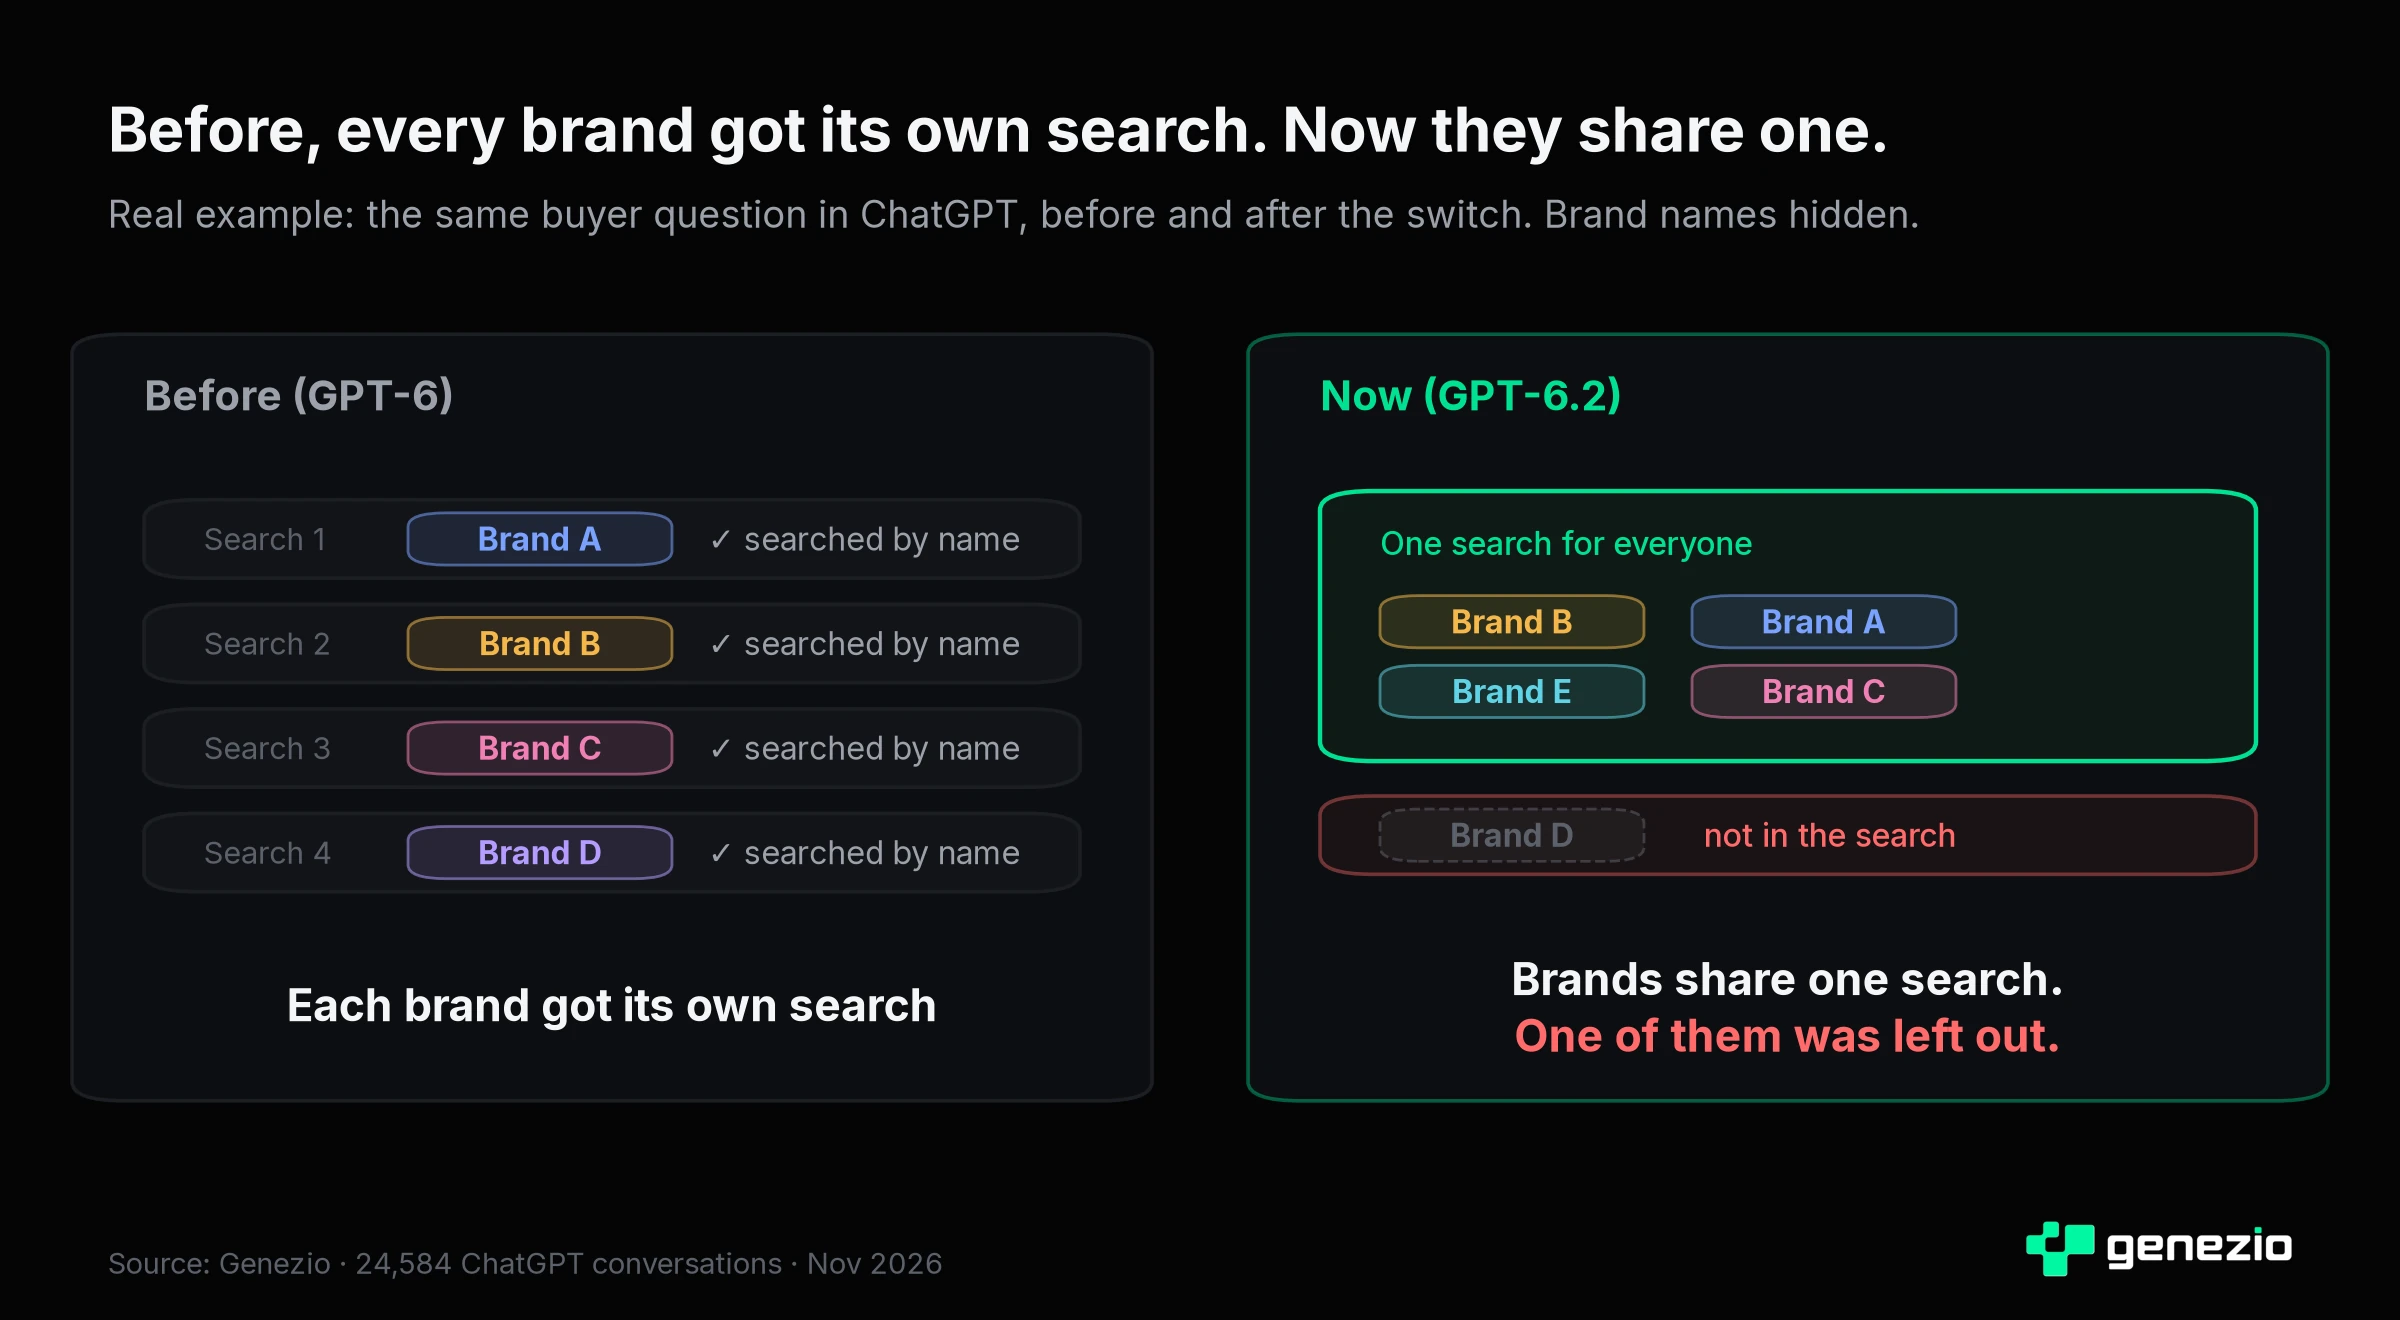
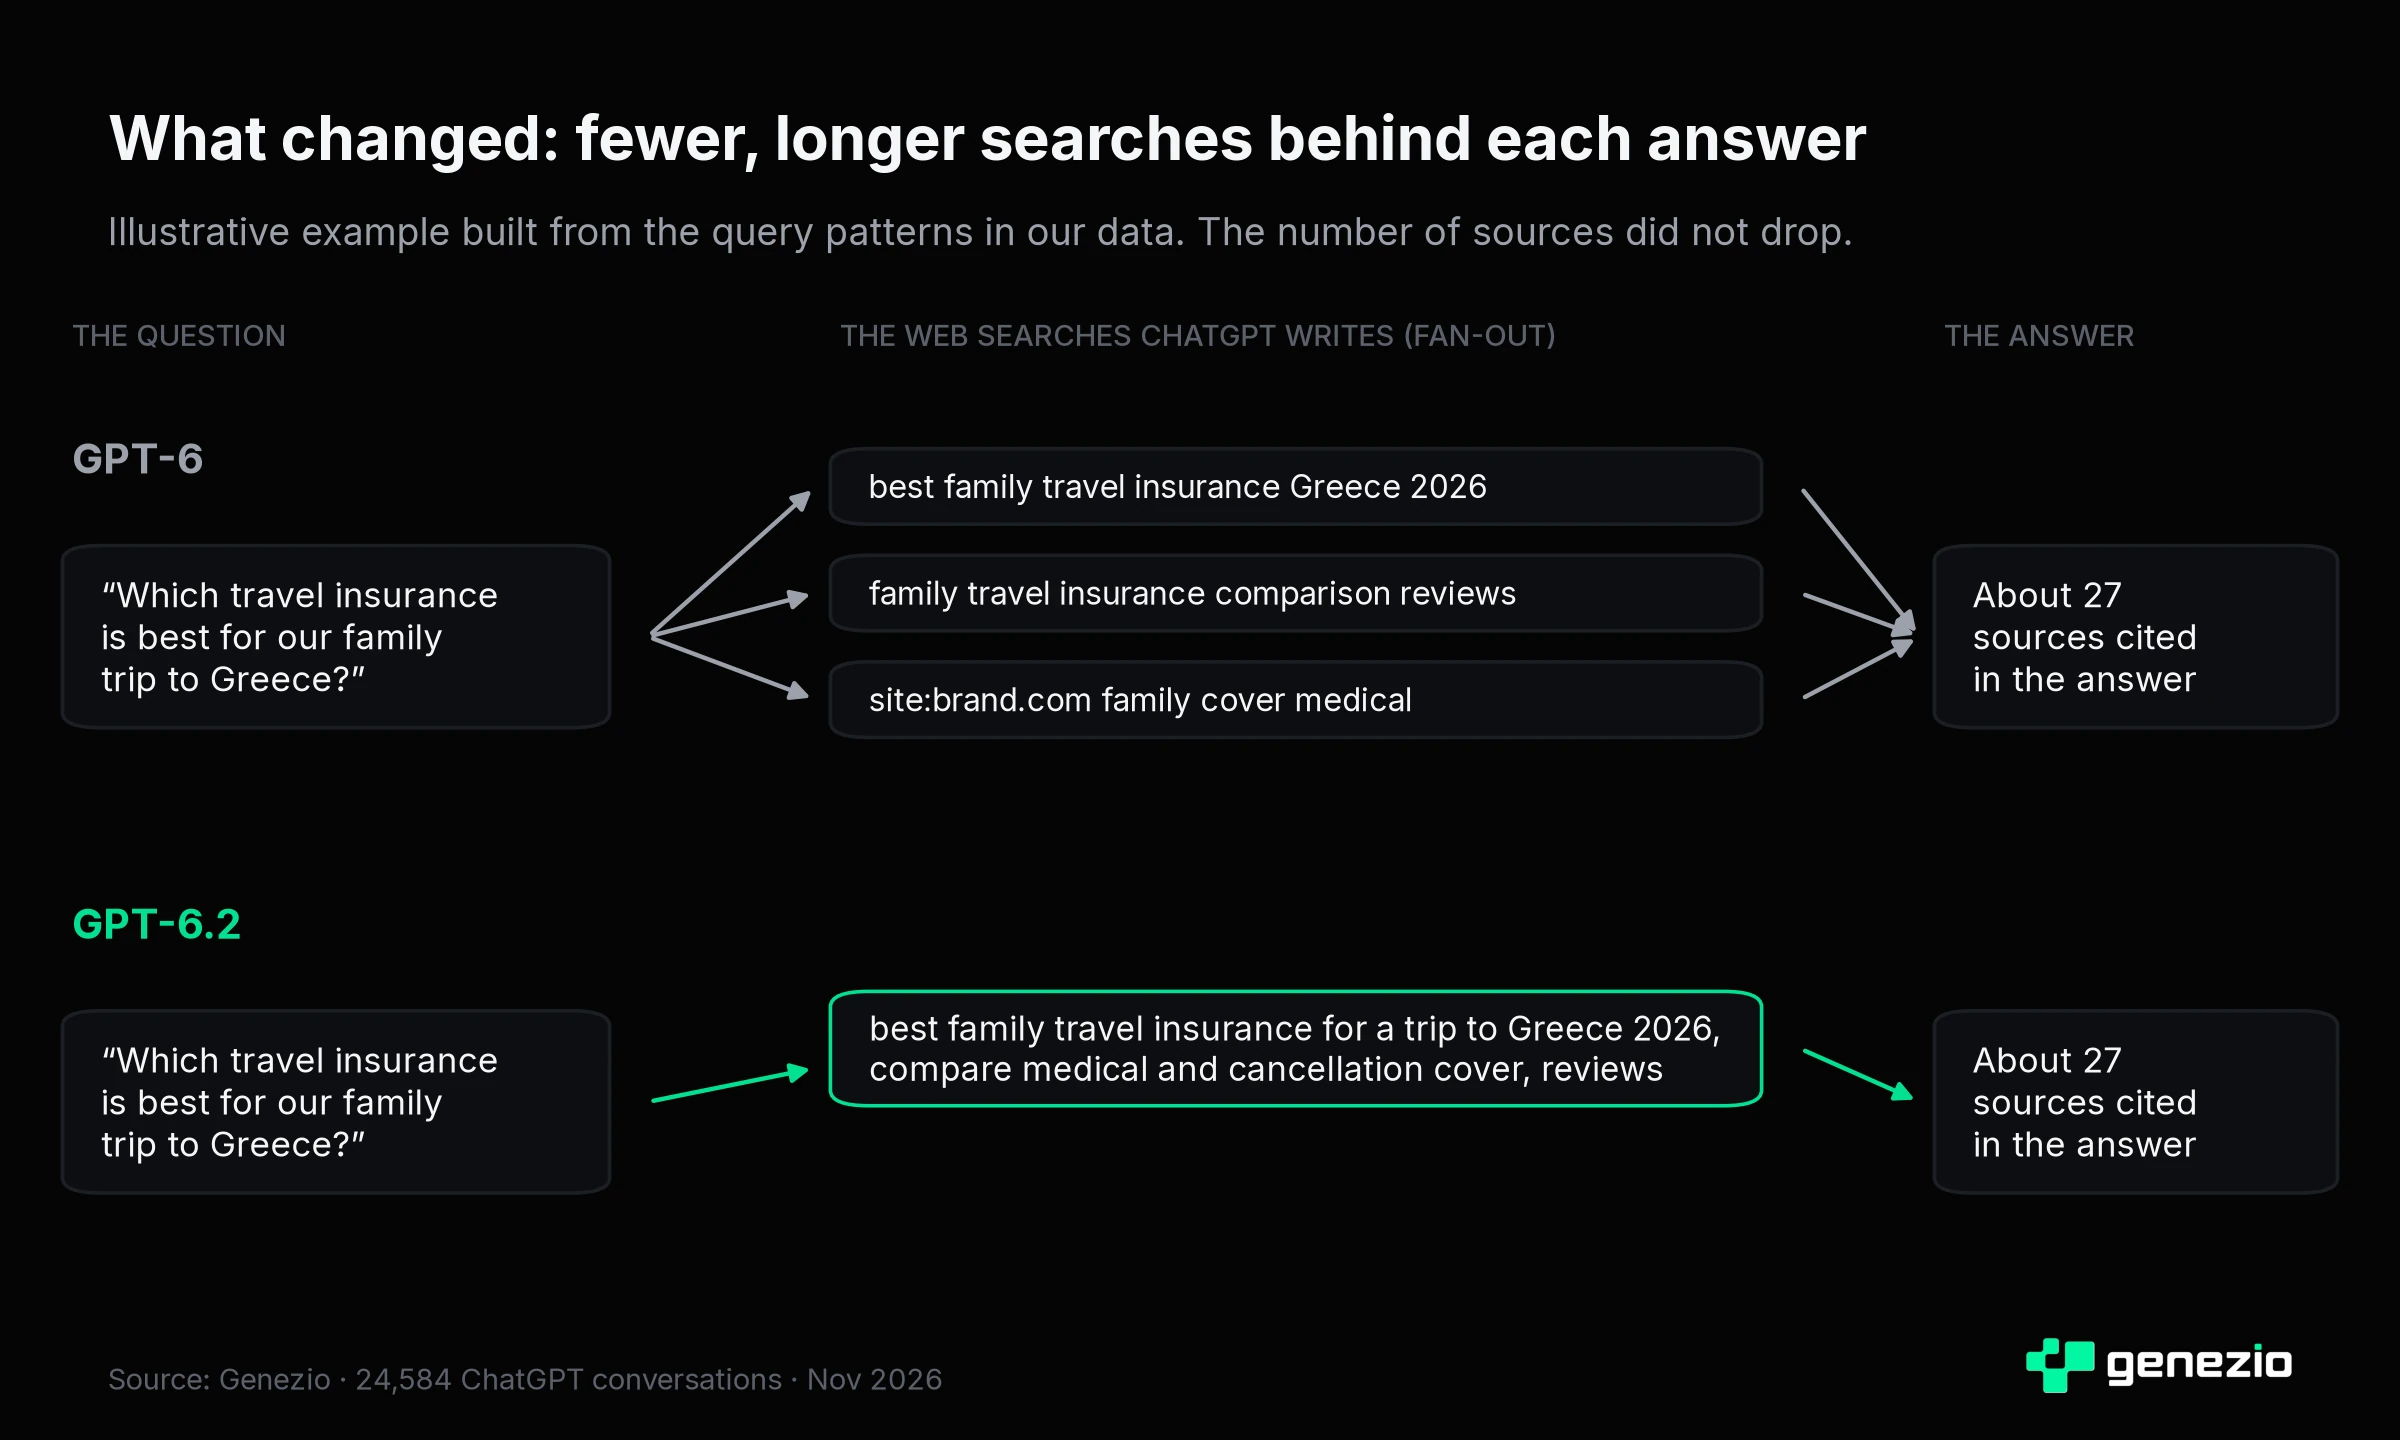
revert(research): back to the first fan-out chart

diff --git a/new-landing/src/posts/gpt-6-2-chatgpt-searches-less.md b/new-landing/src/posts/gpt-6-2-chatgpt-searches-less.md
@@ -48,11 +48,9 @@ When you ask ChatGPT a question that needs fresh information, it does not send y
 
 The fan-out decides which pages ChatGPT can read. A page that no search finds cannot be cited, however good it is. For GEO (Generative Engine Optimization), the fan-out is the front door.
 
-![Before, ChatGPT ran a separate search for each brand. Now it runs one search for all of them, and one brand was left out](/images/gpt-6-2-fanout-explained.webp)
+![Illustration: GPT-6 runs three searches for a question, GPT-6.2 runs one longer search, and both answers cite about 27 sources](/images/gpt-6-2-fanout-explained.webp)
 
-With GPT-6.2, that front door got narrower. The example above is real: a buyer question that a persona asked ChatGPT every day. On GPT-6, ChatGPT searched for each brand by name, one search per brand. On GPT-6.2, it ran one search that named several brands at once, and one of the four brands from before was not in it at all.
-
-GPT-6.2 does not do this every time. On the following days, the same question got 1, 1 and 4 searches. But it does it far more often, as the numbers below show.
+With GPT-6.2, that front door got narrower.
 
 ## What happened on November 24
 
